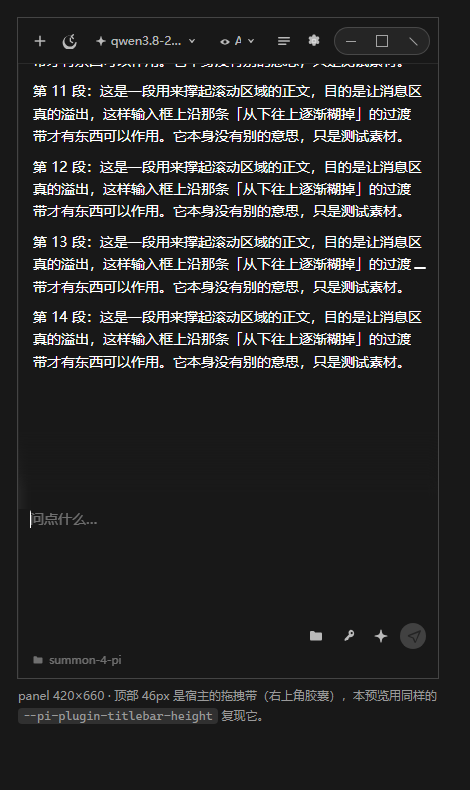
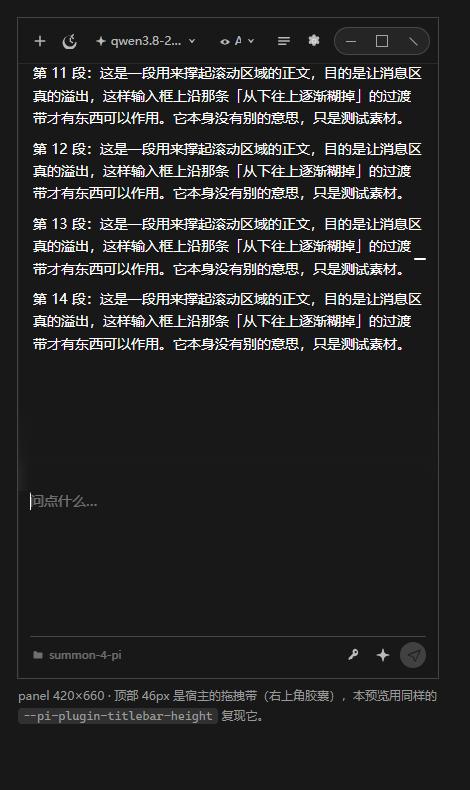
Put the buttons and the project name on one bottom row
The four composer buttons sat inside the input row, taking about a button's worth
of the textarea's usable width, and the project chip had a row of its own below -
which reads as two unrelated things rather than one control strip.

Now the input takes the full width, and one bottom row holds the project chip on
the left and the buttons on the right, separated by a grower and set off by a
hairline. The project name yields first when space runs short (it has a title with
the full path; a button has no substitute), so flex: 0 1 auto with min-width: 0.

The pure folder icon button is gone: the chip already shows the current project
and opens the same menu, so keeping both was two entry points for one action -
which is exactly what the screenshot was pointing at.

diff --git a/plugins/local.summon-chat/renderer/index.html b/plugins/local.summon-chat/renderer/index.html
@@ -698,12 +698,22 @@ body { overflow: hidden; }
   color: var(--text-disabled);
 }
 .attach-note[hidden] { display: none; }
-/* 输入框下面那一行：目前只有「当前项目文件夹」。高度是 0 时就等于不存在，
-   所以快捷对话（没有项目）不会因此多出一块空白。 */
-.composer-foot { display: flex; align-items: center; gap: .35rem; margin-top: .15rem; }
-.composer-foot:empty { display: none; }
+/* 输入框下面那一行：左边「当前项目文件夹」，右边四个按钮。
+   一行放不下时项目名先截断（它有 title 提示，按钮没有替代品）。 */
+.composer-foot {
+  display: flex; align-items: center; gap: .3rem;
+  margin-top: .3rem; padding-top: .35rem;
+  /* 比 --border 稍明显一点：分隔线是这一版新加的，太淡就一直有人问「按钮怎么飘着」。 */
+  border-top: 1px solid var(--border-strong, var(--border));
+  min-width: 0;
+}
+.composer-foot .iconbtn { flex: 0 0 auto; }
+.composer-foot .sendkey { flex: 0 0 1.75rem; }
+.composer-foot .grow { flex: 1 1 auto; min-width: .25rem; }
 .proj-chip {
-  display: inline-flex; align-items: center; gap: .3rem; max-width: 100%;
+  display: inline-flex; align-items: center; gap: .3rem;
+  /* 关键：允许被压缩。默认 min-width:auto 会让长项目名把按钮顶出面板。 */
+  flex: 0 1 auto; min-width: 0; max-width: 100%;
   border: 0; background: none; padding: .1rem .15rem; border-radius: 5px;
   color: var(--text-disabled); font-size: .6875rem; font-family: inherit;
   cursor: pointer; text-align: left;
@@ -2890,25 +2900,30 @@ window.PiCurve = { create: create };
             <!-- 附件条：粘贴 / 拖入的文件。图片给缩略图，其它给文件名 + 大小。
                  有内容才出现，所以没附件时不会多占一行。 -->
             <div class="attach-strip" id="attachStrip" hidden></div>
+            <!-- 输入区只放输入框：四个按钮原来挤在它右边，把可用宽度吃掉了一条按钮的份。 -->
             <div class="cinbox">
               <textarea class="bare-input comp" id="chatInput" rows="2" placeholder="问点什么…" aria-label="提问输入框"></textarea>
-              <button class="iconbtn" id="btnProject" title="项目文件夹" hidden><svg><use href="#i-folder" /></svg></button>
-              <button class="iconbtn" id="btnPerm" title="权限模式" hidden><svg><use href="#i-key" /></svg></button>
-              <button class="iconbtn" id="btnEnhance" title="增强提示词"><svg><use href="#i-spark" /></svg></button>
-              <button class="sendkey" id="sendKey" title="发送" disabled><svg><use id="sendIcon" href="#i-send" /></svg></button>
             </div>
-            <!-- 当前项目文件夹（Agent 模式）。放在输入框**左下角**：用户要能一眼看到
-                 这条会话的工作目录是哪个 —— 以前选完项目什么都不显示，看起来就像没生效。 -->
+            <!-- 贴了图片时的如实提示（快捷对话看不了图，见 renderAttachNote）。
+                 放在输入区**下面、按钮行上面**：这是布局上的从属关系 ——
+                 它说的是上面那坨内容，不是底下那排按钮。 -->
+            <div class="attach-note" id="attachNote" hidden></div>
+            <!-- 最底下**一行**：左边当前项目文件夹，右边四个按钮。
+                 用户要的就是这个形状 —— 项目名和按钮都在最底下、同一行，
+                 而不是「项目名一行、按钮另一行」。 -->
             <div class="composer-foot">
               <button class="proj-chip" id="projChip" type="button" hidden title="切换项目文件夹">
                 <svg><use href="#i-folder" /></svg><span id="projName">未选择项目</span>
               </button>
               <span class="grow"></span>
+              <!-- 项目文件夹那个图标按钮**删掉了**：左下角的 chip 显示的就是当前项目、
+                   点它也是同一个菜单，再放一个纯文件夹图标等于同一件事两个入口。
+                   （用户在截图里圈出来的「这两个不能放在一行吗」就是指它俩。） -->
+              <button class="iconbtn" id="btnPerm" title="权限模式" hidden><svg><use href="#i-key" /></svg></button>
+              <button class="iconbtn" id="btnEnhance" title="增强提示词"><svg><use href="#i-spark" /></svg></button>
+              <button class="sendkey" id="sendKey" title="发送" disabled><svg><use id="sendIcon" href="#i-send" /></svg></button>
             </div>
-            <!-- 贴了图片时的如实提示（快捷对话看不了图，见 renderAttachNote）。 -->
-            <div class="attach-note" id="attachNote" hidden></div>
             <!-- 「Enter 发送 · Shift+Enter 换行」那行提示已按用户要求删除：
-                 输入区直接铺到底部，四个按钮贴着窗口下沿。
                  忙时的语义（Enter 是排队还是引导）改由上面的状态行说明，见 setBusy()。 -->
           </div>
         </div>
@@ -5654,14 +5669,14 @@ window.PiCurve = { create: create };
         }
 
         /**
-         * 项目文件夹与权限模式是**会话级**的东西，只有 Agent 模式才有意义，
-         * 所以这两个按钮在快捷对话下隐藏。
+         * 权限模式是**会话级**的东西，只有 Agent 模式才有意义，所以它在快捷对话下隐藏。
+         * 项目文件夹同理 —— 但它的入口是左下角那枚 chip（见 renderProjectChip），
+         * 不再另设一个纯文件夹图标按钮。
          */
         function renderAgentControls() {
           var agentMode = isAgent();
-          $("btnProject").hidden = !agentMode;
           $("btnPerm").hidden = !agentMode;
-          // 输入框左下角那枚「当前项目文件夹」也只在 Agent 模式出现。
+          // 最底下那一行左边的「当前项目文件夹」也只在 Agent 模式出现。
           renderProjectChip();
         }
         function roleMenuItems() {
@@ -6030,7 +6045,6 @@ window.PiCurve = { create: create };
           });
         }
 
-        $("btnProject").addEventListener("click", function () { openProjectMenu($("btnProject")); });
         $("projChip").addEventListener("click", function () { openProjectMenu($("projChip")); });
 
         $("btnPerm").addEventListener("click", function () {

diff --git a/plugins/local.summon-chat/renderer/renderer.template.html b/plugins/local.summon-chat/renderer/renderer.template.html
@@ -247,12 +247,22 @@ body { overflow: hidden; }
   color: var(--text-disabled);
 }
 .attach-note[hidden] { display: none; }
-/* 输入框下面那一行：目前只有「当前项目文件夹」。高度是 0 时就等于不存在，
-   所以快捷对话（没有项目）不会因此多出一块空白。 */
-.composer-foot { display: flex; align-items: center; gap: .35rem; margin-top: .15rem; }
-.composer-foot:empty { display: none; }
+/* 输入框下面那一行：左边「当前项目文件夹」，右边四个按钮。
+   一行放不下时项目名先截断（它有 title 提示，按钮没有替代品）。 */
+.composer-foot {
+  display: flex; align-items: center; gap: .3rem;
+  margin-top: .3rem; padding-top: .35rem;
+  /* 比 --border 稍明显一点：分隔线是这一版新加的，太淡就一直有人问「按钮怎么飘着」。 */
+  border-top: 1px solid var(--border-strong, var(--border));
+  min-width: 0;
+}
+.composer-foot .iconbtn { flex: 0 0 auto; }
+.composer-foot .sendkey { flex: 0 0 1.75rem; }
+.composer-foot .grow { flex: 1 1 auto; min-width: .25rem; }
 .proj-chip {
-  display: inline-flex; align-items: center; gap: .3rem; max-width: 100%;
+  display: inline-flex; align-items: center; gap: .3rem;
+  /* 关键：允许被压缩。默认 min-width:auto 会让长项目名把按钮顶出面板。 */
+  flex: 0 1 auto; min-width: 0; max-width: 100%;
   border: 0; background: none; padding: .1rem .15rem; border-radius: 5px;
   color: var(--text-disabled); font-size: .6875rem; font-family: inherit;
   cursor: pointer; text-align: left;
@@ -705,25 +715,30 @@ __ICONS__
             <!-- 附件条：粘贴 / 拖入的文件。图片给缩略图，其它给文件名 + 大小。
                  有内容才出现，所以没附件时不会多占一行。 -->
             <div class="attach-strip" id="attachStrip" hidden></div>
+            <!-- 输入区只放输入框：四个按钮原来挤在它右边，把可用宽度吃掉了一条按钮的份。 -->
             <div class="cinbox">
               <textarea class="bare-input comp" id="chatInput" rows="2" placeholder="问点什么…" aria-label="提问输入框"></textarea>
-              <button class="iconbtn" id="btnProject" title="项目文件夹" hidden><svg><use href="#i-folder" /></svg></button>
-              <button class="iconbtn" id="btnPerm" title="权限模式" hidden><svg><use href="#i-key" /></svg></button>
-              <button class="iconbtn" id="btnEnhance" title="增强提示词"><svg><use href="#i-spark" /></svg></button>
-              <button class="sendkey" id="sendKey" title="发送" disabled><svg><use id="sendIcon" href="#i-send" /></svg></button>
             </div>
-            <!-- 当前项目文件夹（Agent 模式）。放在输入框**左下角**：用户要能一眼看到
-                 这条会话的工作目录是哪个 —— 以前选完项目什么都不显示，看起来就像没生效。 -->
+            <!-- 贴了图片时的如实提示（快捷对话看不了图，见 renderAttachNote）。
+                 放在输入区**下面、按钮行上面**：这是布局上的从属关系 ——
+                 它说的是上面那坨内容，不是底下那排按钮。 -->
+            <div class="attach-note" id="attachNote" hidden></div>
+            <!-- 最底下**一行**：左边当前项目文件夹，右边四个按钮。
+                 用户要的就是这个形状 —— 项目名和按钮都在最底下、同一行，
+                 而不是「项目名一行、按钮另一行」。 -->
             <div class="composer-foot">
               <button class="proj-chip" id="projChip" type="button" hidden title="切换项目文件夹">
                 <svg><use href="#i-folder" /></svg><span id="projName">未选择项目</span>
               </button>
               <span class="grow"></span>
+              <!-- 项目文件夹那个图标按钮**删掉了**：左下角的 chip 显示的就是当前项目、
+                   点它也是同一个菜单，再放一个纯文件夹图标等于同一件事两个入口。
+                   （用户在截图里圈出来的「这两个不能放在一行吗」就是指它俩。） -->
+              <button class="iconbtn" id="btnPerm" title="权限模式" hidden><svg><use href="#i-key" /></svg></button>
+              <button class="iconbtn" id="btnEnhance" title="增强提示词"><svg><use href="#i-spark" /></svg></button>
+              <button class="sendkey" id="sendKey" title="发送" disabled><svg><use id="sendIcon" href="#i-send" /></svg></button>
             </div>
-            <!-- 贴了图片时的如实提示（快捷对话看不了图，见 renderAttachNote）。 -->
-            <div class="attach-note" id="attachNote" hidden></div>
             <!-- 「Enter 发送 · Shift+Enter 换行」那行提示已按用户要求删除：
-                 输入区直接铺到底部，四个按钮贴着窗口下沿。
                  忙时的语义（Enter 是排队还是引导）改由上面的状态行说明，见 setBusy()。 -->
           </div>
         </div>
@@ -3469,14 +3484,14 @@ __ICONS__
         }
 
         /**
-         * 项目文件夹与权限模式是**会话级**的东西，只有 Agent 模式才有意义，
-         * 所以这两个按钮在快捷对话下隐藏。
+         * 权限模式是**会话级**的东西，只有 Agent 模式才有意义，所以它在快捷对话下隐藏。
+         * 项目文件夹同理 —— 但它的入口是左下角那枚 chip（见 renderProjectChip），
+         * 不再另设一个纯文件夹图标按钮。
          */
         function renderAgentControls() {
           var agentMode = isAgent();
-          $("btnProject").hidden = !agentMode;
           $("btnPerm").hidden = !agentMode;
-          // 输入框左下角那枚「当前项目文件夹」也只在 Agent 模式出现。
+          // 最底下那一行左边的「当前项目文件夹」也只在 Agent 模式出现。
           renderProjectChip();
         }
         function roleMenuItems() {
@@ -3845,7 +3860,6 @@ __ICONS__
           });
         }
 
-        $("btnProject").addEventListener("click", function () { openProjectMenu($("btnProject")); });
         $("projChip").addEventListener("click", function () { openProjectMenu($("projChip")); });
 
         $("btnPerm").addEventListener("click", function () {
